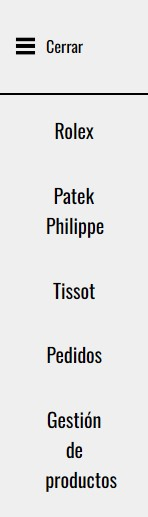
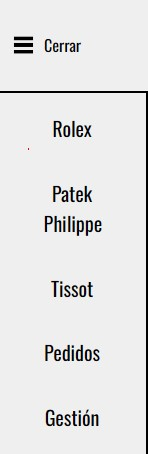
Nombres del boton gestion y agregar

diff --git a/PROYECTO/agregar-productos-gestion.php b/PROYECTO/agregar-productos-gestion.php
@@ -52,8 +52,7 @@
                         <label for="imagen">Imagen</label>
                         <input type="file" name="imagen" tabindex="8" aria-label="Selecciona la foto del reloj">
 
-                        <input type="submit" value="Agregar a la base de datos" name='agregar' tabindex="9"
-                            aria-label="Boton agregar">
+                        <input type="submit" value="Agregar" name='agregar' tabindex="9" aria-label="Boton agregar">
 
                     </div>
                 </form>

diff --git a/PROYECTO/header.php b/PROYECTO/header.php
@@ -49,7 +49,7 @@
               }
 
               if ($tipo == 1) {
-                echo '<a href="gestion.php" class="apartados-desplegable" tabindex="6">Gestión de productos</a>';
+                echo '<a href="gestion.php" class="apartados-desplegable" tabindex="6">Gestión</a>';
               }
 
 
